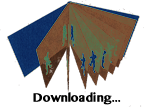
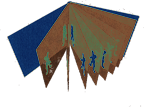
Update image placeholder. Showing downloading in white. Aviary: not anymating the present view controller. Animate the alpha of the view.

Changed region(s): [[0.2222, 0.8411, 0.8333, 0.9813]]

diff --git a/flip-through/flip-through/libs/Aviary/FTAviaryController.m b/flip-through/flip-through/libs/Aviary/FTAviaryController.m
@@ -15,6 +15,7 @@
 @interface FTAviaryController ()
 @property (nonatomic, strong) AFPhotoEditorSession *currentSession;
 @property (nonatomic, strong) UIViewController *currentViewController;
+@property (nonatomic, strong) UIView *currentView;
 @end
 
 @implementation FTAviaryController
@@ -65,8 +66,16 @@
     AFPhotoEditorController *photoEditor = [[AFPhotoEditorController alloc] initWithImage:image];
     [photoEditor setDelegate:self];
     
+    [self.currentViewController presentViewController:photoEditor animated:NO completion:nil];
+    
     // Present the editor
-    [self.currentViewController presentViewController:photoEditor animated:YES completion:nil];
+    photoEditor.view.alpha = 0;
+    __block AFPhotoEditorController *beditor = photoEditor;
+    
+    [UIView animateWithDuration:0.5 delay:0.0 options:UIViewAnimationOptionCurveEaseInOut animations:^{
+        beditor.view.alpha = 1;
+    } completion:^(BOOL finished) {
+    }];
     
     // Capture the editor's session and set a strong property with it so that the session is retained
     __block AFPhotoEditorSession *session = [photoEditor session];
@@ -77,15 +86,13 @@
     AFPhotoEditorContext *context = [session createContextWithImage:image];
     
     __weak typeof(self) wself = self;
-
+    
     // Request that the context asynchronously replay the session's actions on its image.
     [context render:^(UIImage *result) {
         // `result` will be nil if the image was not modified in the session, or non-nil if the session was closed successfully
         if(result != nil)
         {
             [wself saveHiResImage:result]; // Developer-defined method that saves the high resolution image to disk, perhaps.
-            
-            
         }
         // Release the session.
         [wself setCurrentSession:nil];
@@ -100,15 +107,31 @@
 {
     
     // Handle the result image here and dismiss the editor.
-    [self.currentViewController dismissViewControllerAnimated:YES completion:nil];
+    [self closeEditor:editor];
+    
 }
 
 
 - (void)photoEditorCanceled:(AFPhotoEditorController *)editor
 {
     // Handle cancellation here
-    [self.currentViewController dismissViewControllerAnimated:YES completion:nil];
-    [self.currentViewController.view stopSpinner:1];
+    [self closeEditor:editor];
+}
+
+- (void)closeEditor:(AFPhotoEditorController *)editor;
+{
+    __block AFPhotoEditorController *beditor = editor;
+    __weak typeof(self) wself = self;
+
+    [self.currentViewController dismissViewControllerAnimated:NO completion:^{
+        beditor.view.alpha = 1;
+        [UIView animateWithDuration:0.5 delay:0.0 options:UIViewAnimationOptionCurveEaseInOut animations:^{
+            beditor.view.alpha = 0;
+        } completion:^(BOOL finished) {
+            [wself.currentViewController.view stopSpinner:1];
+        }];
+    }];
+
 }
 
 - (void)saveHiResImage:(UIImage *)image;

diff --git a/flip-through/flip-through/Photo/FTPhotoView.m b/flip-through/flip-through/Photo/FTPhotoView.m
@@ -18,6 +18,7 @@
 #import "FTAnalyticsService.h"
 #import "FTAviaryController.h"
 
+
 static CGPoint kToolbarViewVisible;
 static CGPoint kToolbarViewHidden;
 
@@ -77,12 +78,12 @@ static CGPoint kToolbarViewHidden;
     UISwipeGestureRecognizer *swipeRightRecognizer = [[UISwipeGestureRecognizer alloc] initWithTarget:self action:@selector(rightAction)];
     swipeRightRecognizer.direction = UISwipeGestureRecognizerDirectionRight;
     swipeRightRecognizer.cancelsTouchesInView = NO;
-    [self addGestureRecognizer:swipeRightRecognizer];
+    [self.imageContainerView addGestureRecognizer:swipeRightRecognizer];
     
     UISwipeGestureRecognizer *swipeLeftRecognizer = [[UISwipeGestureRecognizer alloc] initWithTarget:self action:@selector(leftAction)];
     swipeLeftRecognizer.direction = UISwipeGestureRecognizerDirectionLeft;
     swipeLeftRecognizer.cancelsTouchesInView = NO;
-    [self addGestureRecognizer:swipeLeftRecognizer];
+    [self.imageContainerView addGestureRecognizer:swipeLeftRecognizer];
     
     
 }
@@ -95,16 +96,11 @@ static CGPoint kToolbarViewHidden;
     {
         return;
     }
+    self.isShowingFullScreenImage = YES;
+
     
     [self showItemMedia:item];
 
-    __weak typeof(self) wself = self;
-    self.alpha = 0;
-    [UIView animateWithDuration:0.5 delay:0.0 options:UIViewAnimationOptionCurveEaseInOut animations:^{
-        wself.alpha = 1;
-    } completion:^(BOOL finished) {
-        wself.isShowingFullScreenImage = YES;
-    }];
 }
 
 - (void)updateFullScreenItem:(FTItem *)item option:(UIViewAnimationOptions)option;
@@ -129,6 +125,7 @@ static CGPoint kToolbarViewHidden;
 
 - (void)showItemMedia:(FTItem *)item;
 {
+    self.alpha = 1;
     __weak typeof(self) wself = self;
 
     NSString *imageUrl = [item mediaBigUrl];
@@ -142,6 +139,7 @@ static CGPoint kToolbarViewHidden;
     } failure:^(NSURLRequest *request, NSHTTPURLResponse *response, NSError *error) {
         [wself stopSpinner:1];
     }];
+
 }
 
 - (void)dismissFullScreenImage;
@@ -187,7 +185,7 @@ static CGPoint kToolbarViewHidden;
     if (sender == self.aviaryButton)
     {
         [[FTAviaryController sharedInstance] editImage:self.fullImage.image inViewController:self.parentViewController];
-    }
+    } 
     else if (sender == self.closeButton)
     {
         [self dismissFullScreenImage];

diff --git a/flip-through/flip-through/Grid/FTGridViewController.m b/flip-through/flip-through/Grid/FTGridViewController.m
@@ -317,6 +317,8 @@ static CGPoint kFooterViewHidden;
     [self hideFooter];
     self.view.userInteractionEnabled = YES;
 }
+
+
 - (void)showFooter:(void (^)())completion {
     
     if (self.isShowingFooter)
@@ -338,6 +340,7 @@ static CGPoint kFooterViewHidden;
         }];
     }];
 }
+
 
 - (void)hideFooter
 {
